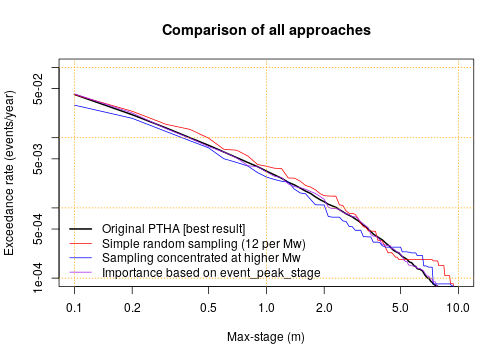
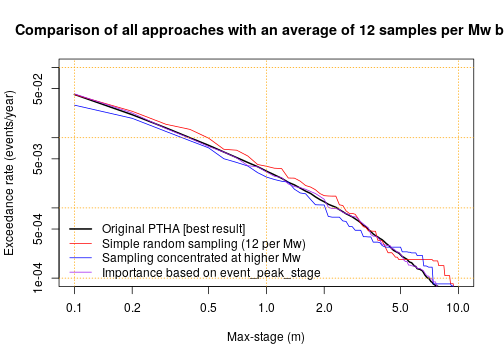
more updates to tutorial

Changed region(s): [[0.0298, 0.0611, 1.0, 0.1222]]

diff --git a/ptha_access/example_event_access_scripts/random_scenario_sampling/random_scenario_sampling.md b/ptha_access/example_event_access_scripts/random_scenario_sampling/random_scenario_sampling.md
@@ -281,7 +281,7 @@ accuracy improvement on-average.
 
 The simple random sample has many scenario with low maximum-stage values, which
 are not of particular interest for this study. For instance half of all the scenarios
-have max-stage less than 0.16 m, 
+have max-stage less than 0.157 m, 
 which seems too small to be of much interest in most tsunami hazard studies. 
 
 ```r
@@ -378,7 +378,18 @@ stage_exrates_rs_stage_mw_weighted = sapply(stage_seq,
 
 ![plot of chunk ptha18_tonga_point_plot3](figure/ptha18_tonga_point_plot3-1.png)
 
-Importance sampling can backfire if the choice of `event_importance` is poor. We do not have a foolproof method to set it. We suggest that users study the performance of their choice under repeated sampling (at PTHA18 points) - a poor choice will lead to erratic behaviour for some random samples.
+In comparison to the previous approaches, we have more scenarios with high max-stage values.
+
+```r
+quantile(event_peak_stage[random_scenarios_stage_mw_weighted$inds], seq(0, 1, len=5), na.rm=TRUE)
+```
+
+```
+##           0%          25%          50%          75%         100% 
+##  0.004781944  0.189168606  0.792112708  3.175440550 19.648012161
+```
+
+Beware importance sampling can backfire if the choice of `event_importance` is poor. We do not have a foolproof method to set it. We suggest that users study the performance of their choice under repeated sampling (at PTHA18 points) - a poor choice will lead to erratic behaviour for some random samples.
 
 ## Comparison of all approaches
 -------------------------------
@@ -388,7 +399,7 @@ Importance sampling can backfire if the choice of `event_importance` is poor. We
 # Plot it
 plot(stage_seq, stage_exrates_ptha18, log='xy', t='l', lwd=2, xlim=c(0.1, 10), ylim=c(1e-04, 1e-01),
      xlab='Max-stage (m)', ylab='Exceedance rate (events/year)',
-     main='Comparison of all approaches')
+     main='Comparison of all approaches with an average of 12 samples per Mw bin')
 points(stage_seq, stage_exrates_rs_simple, t='l', col='red')
 points(stage_seq, stage_exrates_rs_mw_weighted, t='l', col='blue')
 points(stage_seq, stage_exrates_rs_stage_mw_weighted, t='l', col='purple')
